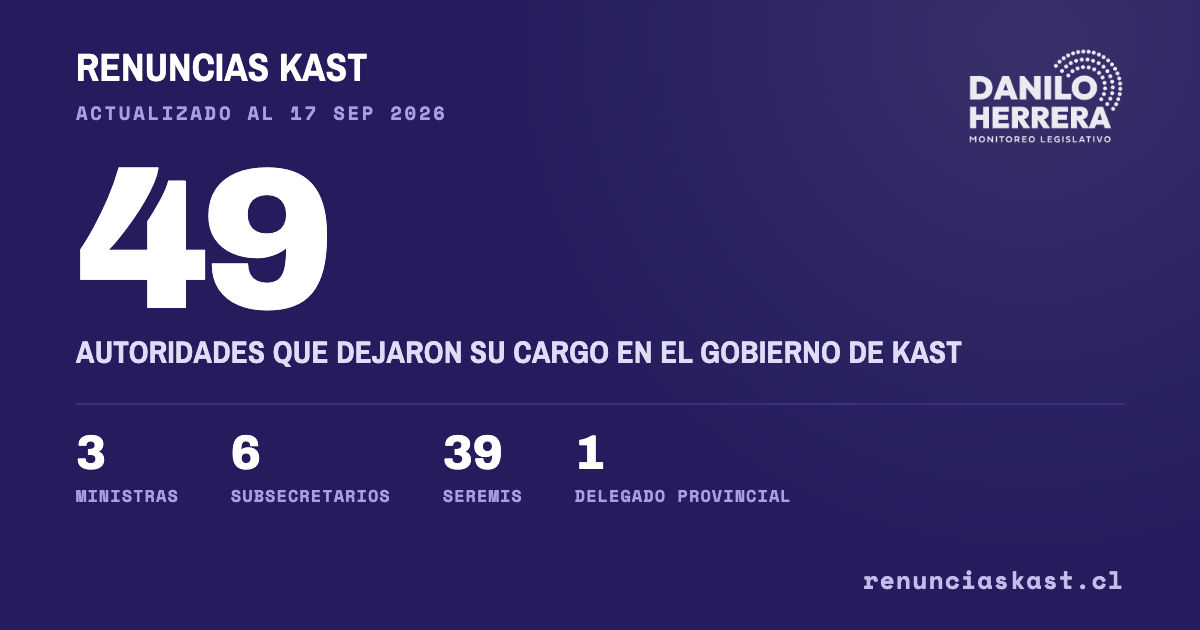
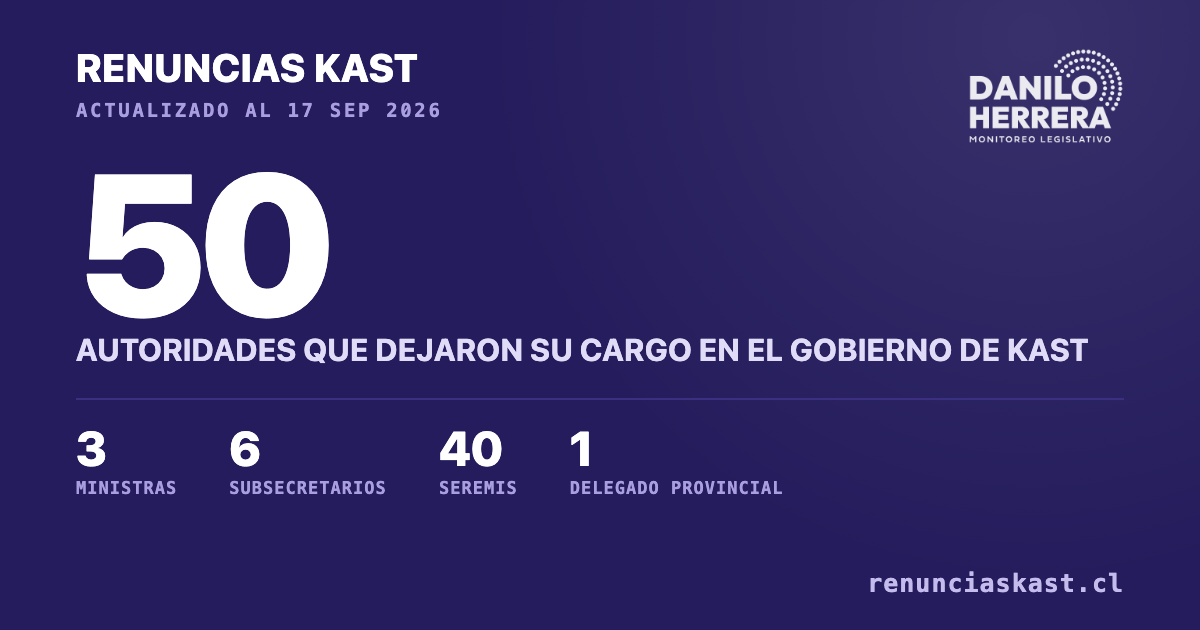
Agrega renuncia de seremi de Economía de O'Higgins (Juan Carlos Meléndez)

diff --git a/index.html b/index.html
@@ -204,12 +204,12 @@
   <div class="wrap">
     <div class="tracker">
       <div class="meta">Actualizado al 17 de septiembre de 2026</div>
-      <div class="big">49</div>
+      <div class="big">50</div>
       <div class="cap">autoridades que dejaron su cargo<br class="mbr"> en el gobierno de José Antonio Kast</div>
       <div class="strip">
         <div><div class="sn">3</div><div class="sl">ministras</div></div>
         <div><div class="sn">6</div><div class="sl">subsecretarios</div></div>
-        <div><div class="sn">39</div><div class="sl">seremis</div></div>
+        <div><div class="sn">40</div><div class="sl">seremis</div></div>
         <div><div class="sn">1</div><div class="sl">delegado provincial</div></div>
         <div><div class="sn" id="avgDias">—</div><div class="sl"><span class="nowrap">días de gobierno</span><br class="mbr"> por salida</div></div>
       </div>
@@ -222,7 +222,7 @@
         <div class="ct-cell"><div class="ct-n" id="cMins">00</div><div class="ct-l">min</div></div>
         <div class="ct-cell"><div class="ct-n" id="cSecs">00</div><div class="ct-l">seg</div></div>
       </div>
-      <div class="ct-note"><span class="nowrap">Desde la renuncia del seremi de Energía de Coquimbo,</span><br class="mbr"> 17 de septiembre a las 07:00 hrs.</div>
+      <div class="ct-note"><span class="nowrap">Desde la renuncia del seremi de Economía de O'Higgins,</span><br class="mbr"> 17 de septiembre a las 15:12 hrs.</div>
     </div>
     <p class="method">Incluye renuncias, remociones, cambios de puesto y nombramientos que no llegaron a concretarse. Cada caso enlaza a una fuente de prensa.</p>
   </div>
@@ -358,6 +358,7 @@ const D = [
   {n:"Juan Pablo Rodríguez", tipo:"Subsecretario", sexo:"m", terr:"Nacional", min:"Hacienda", fecha:"23 jul", sk:723, jud:false, motivo:"Test de drogas", razon:"Removido tras dar positivo en test de drogas. Niega consumir y presentó un contraexamen negativo de la U. Católica", medio:"La Tercera", url:"https://www.latercera.com/politica/noticia/no-refleja-mi-realidad-exsubsecretario-de-hacienda-afirma-que-no-consume-drogas-y-atribuye-a-un-error-el-test-positivo-que-motivo-su-salida/"},
   {n:"Eduardo Leiva", tipo:"Seremi", terr:"Los Lagos", min:"Culturas", fecha:"22 jul", sk:722, jud:false, motivo:"Test de drogas", razon:"Renunció tras dar positivo en un examen de drogas. Niega consumir y presentó un contraexamen negativo de la U. de Chile", medio:"T13", url:"https://www.t13.cl/noticia/politica/exseremi-culturas-lagos-renuncio-tras-dar-positivo-examen-drogas-3-8-2026"},
   {n:"Marcelo Vergara", tipo:"Seremi", terr:"Arica y Parinacota", min:"Hacienda", fecha:"17 jul", sk:717, jud:false, motivo:"Test de drogas", razon:"Renuncia voluntaria, en medio de dudas por su test de drogas. Hacienda confirmó que dio positivo, pero se negó a entregar el informe completo", medio:"El Mostrador", url:"https://www.elmostrador.cl/aqui-arica/2026/09/01/hacienda-confirma-test-positivo-de-drogas-a-exseremi-republicano-pero-no-entrega-resultados/"},
+  {n:"Juan Carlos Meléndez", tipo:"Seremi", terr:"O'Higgins", min:"Economía", fecha:"17 sep", sk:917, jud:false, sexo:"m", motivo:"Cuestionamiento de gestión", razon:"Renuncia pedida por el Gobierno tras una evaluación negativa de su gestión, en medio de las altas cifras de desempleo de la región", medio:"Radio Bravo Rengo", url:"https://www.facebook.com/permalink.php?story_fbid=pfbid026ARBnyEPDoXVH8o9PtuShdtk6NkbXjYS4uKJgovn1KfH4hHrcU2tTMVVTFHCPDjxl&id=61593992474885"},
   {n:"Fabián Páez", tipo:"Seremi", terr:"Coquimbo", min:"Energía", fecha:"17 sep", sk:917, jud:false, sexo:"m", motivo:"No acreditó requisitos", razon:"Renuncia pedida por no cumplir con los requisitos académicos exigidos para el cargo", medio:"Mi Radio", url:"https://www.miradiols.cl/2026/09/16/nueva-baja-en-el-gobierno-seremi-de-energia-renuncia-a-su-cargo/"},
   {n:"José Bravo", tipo:"Seremi", terr:"Araucanía", min:"Salud", fecha:"15 sep", sk:915, jud:false, sexo:"m", motivo:"Cuestionamiento de gestión", razon:"Renuncia pedida por el Minsal tras declaraciones consideradas insensibles en el contexto de la tragedia de Pitrufquén", medio:"La Tercera", url:"https://www.latercera.com/nacional/noticia/minsal-pide-renuncia-a-seremi-de-salud-de-la-araucania-debido-a-declaraciones-post-tragedia-en-pitrufquen/"},
   {n:"Jorge Olivares", tipo:"Seremi", terr:"Antofagasta", min:"Vivienda", fecha:"14 sep", sk:914, jud:false, sexo:"m", motivo:"Cuestionamiento de gestión", razon:"Renuncia pedida por el ministro de Vivienda tras graves falencias en gestión de convenio regional", medio:"Timeline", url:"https://www.timeline.cl/ministro-de-vivienda-pide-renuncia-a-seremi-de-antofagasta-tras-polemica-por-reduccion-de-mas-de-5-mil-viviendas/"},
@@ -471,7 +472,7 @@ render();
 // "UN CAMBIO CADA X DÍAS" y "SIN CAMBIOS" — ambos en vivo, recalculados cada segundo contra la hora actual.
 // Actualizar ÚLTIMO_CAMBIO (fecha y hora) cada vez que se agregue una salida nueva a D.
 const INICIO_GOBIERNO=new Date(2026,2,11); // 11 mar 2026, asunción del gobierno
-const ULTIMO_CAMBIO=new Date(2026,8,17,7,0,0); // 17 sep 2026, 07:00 — renuncia seremi de Energía, Coquimbo
+const ULTIMO_CAMBIO=new Date(2026,8,17,15,12,0); // 17 sep 2026, 15:12 — renuncia seremi de Economía, O'Higgins
 const totalCambios=D.filter(d=>d.sk>0).length;
 function tickCounter(){
   const now=new Date();
